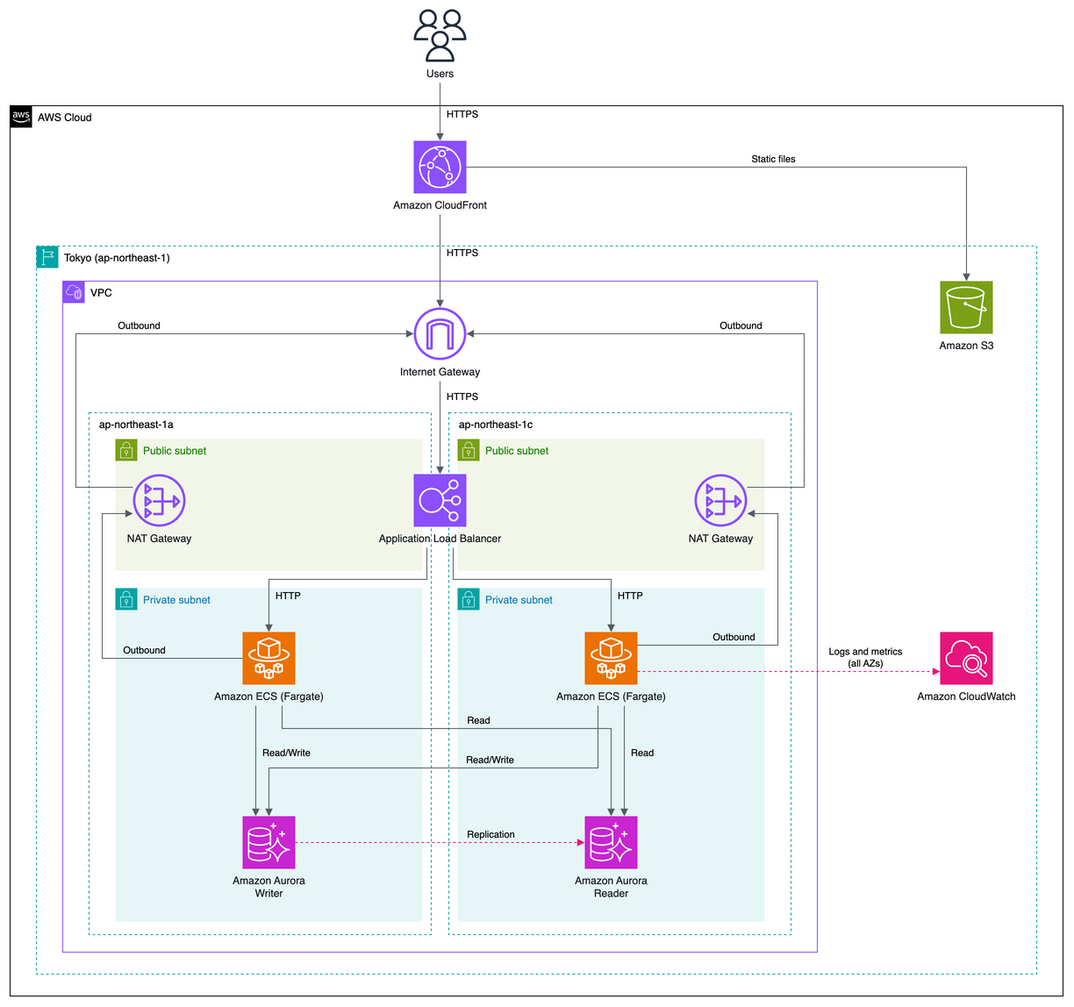
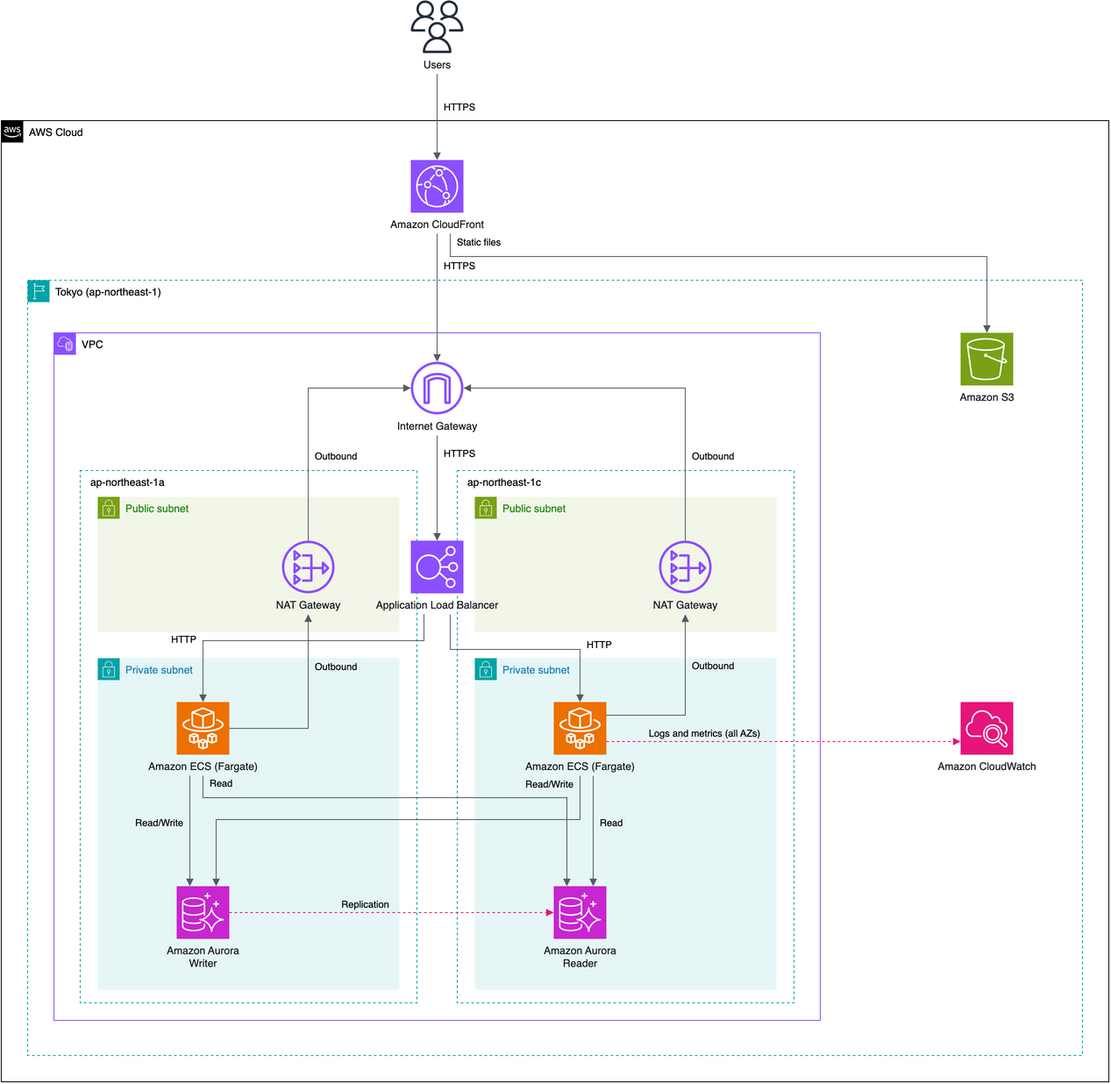
docs: 図の向きの書き方と、Web 構成の新しい並べ方を書く
set: direction で図の向きを選べるようになり、向きを書かない定義はどれも上から下で
描くようになった。VPC のある定義も無い定義と同じ配置で描くので、Web 構成の図の並び方も
変わった。README と docs がまだ左から右の図と古い配置を前提に書いていたので、今の
compile の動きに合わせる。

- README: 例の画像を、載せている定義をそのまま compile した図に差し替える（どちらも
  上から下）。direction: right で左から右になることを1段落で書き、「やらないこと」から
  向きの指定を外す。API の画像は中身が固定した例 api-rest-en と違う図になるので、
  名前を api.png に変える
- docs/definition.md: set の表に direction を足し、VPC の無い定義で書ける設定と
  UNKNOWN_SETTING の allowed を今の値に直す。VPC のある図の並べ方（外は向きに沿い、
  VPC の中は AZ を横に並べてパブリックが上、Internet Gateway と CloudFront のそろえ方、
  ALB の置き場所、AZ が3つの線の添え書きと注記）と、関連付けの線に矢印が付かないことを
  書く。読みにくさが残る図の形も短く書く
- docs/rules.md: global-service-outside-region が出典つきの既定値になったので、制約を
  7つ、既定値を13にする。services.toml の derived_role を説明に足す

文書の例は、この版のバイナリで全部走らせ、終了コードと出力が書いたとおりであることを
確かめた。

diff --git a/docs/definition.md b/docs/definition.md
@@ -25,7 +25,7 @@ A part is a service name made of `a-z`, `0-9` and `_`, optionally followed by a 
 
 There are three connection symbols.
 
-`->` is a main flow, the path traffic takes. `~>` is an auxiliary flow, such as logs going to CloudWatch. It is drawn as a dashed line, and archwire does not work out a network route for it. `--` is an association, for something attached to something else. Write the thing being attached first. Which associations are accepted depends on the layout, see below. `waf` and `acm` are attachments: they may not be the source or the target of `->` or `~>`.
+`->` is a main flow, the path traffic takes. `~>` is an auxiliary flow, such as logs going to CloudWatch. It is drawn as a dashed line, and archwire does not work out a network route for it. `--` is an association, for something attached to something else. Write the thing being attached first. An association is drawn as a dashed line without an arrowhead, because nothing flows along it. Which associations are accepted depends on the layout, see below. `waf` and `acm` are attachments: they may not be the source or the target of `->` or `~>`.
 
 One pair of parts can be connected with one relation only. `ecs -> s3` together with `ecs ~> s3` is the error `CONFLICTING_RELATION`. Direction matters. `ecs -> aurora` and `aurora -> ecs` are two different pairs.
 
@@ -73,7 +73,7 @@ set:
   lang: ja
 ```
 
-`s3.web` and `s3.uploads` are two buckets. The diagram shows the name on the line under the service's name, so the first bucket reads Amazon S3 and then web. The part's id in the report and in the `.drawio` file is the name as written, such as `s3.web`. This definition and its expected output are the acceptance case `tests/cases/api-names-ja`.
+`s3.web` and `s3.uploads` are two buckets. The diagram shows the name on the line under the service's name, so the first bucket reads Amazon S3 and then web. The part's id in the report and in the `.drawio` file is the name as written, such as `s3.web`. With `direction: right` added under `set`, this definition and its expected output are the acceptance case `tests/cases/api-names-ja`.
 
 The name after the dot is made of `a-z`, `0-9` and `-`. It may not start or end with `-`, and a part has at most one dot. It is at most 24 characters long; a longer one is the error `NAME_TOO_LONG`, for example `lambda.resize-images-for-the-web` in `- user -> apigateway(http) -> lambda.resize-images-for-the-web` gives `at` `flows[0][2]` and `got` `resize-images-for-the-web`. `--` is always read as the association symbol, even inside a name, so `s3.foo--bar` is read as `s3.foo -- bar`; in `- user -> cloudfront -> s3.foo--bar` that gives `UNKNOWN_SERVICE` for `bar` at `flows[0][3]`. Write the kind after the name: `apigateway.public(http)`.
 
@@ -81,7 +81,7 @@ Named parts are accepted only in definitions without a VPC. `- user -> alb -> ec
 
 ## Definitions with a VPC
 
-archwire places the parts so the main flow reads from top to bottom inside the VPC, and adds what the path needs, such as the Internet Gateway between CloudFront and the load balancer. A note in the report says that auxiliary flows are not given a network route.
+archwire adds what the path needs, such as the Internet Gateway between CloudFront and the load balancer, and lays the parts out as described under [How the parts are laid out with a VPC](#how-the-parts-are-laid-out-with-a-vpc). A note in the report says that auxiliary flows are not given a network route.
 
 In this layout exactly two associations are accepted, `waf -- cloudfront` (a web ACL on the distribution) and `acm -- cloudfront` (its certificate). Every other `--` is `UNSUPPORTED`, including `waf -- alb`, `acm -- alb`, `waf -- acm` and the reversed `cloudfront -- waf` and `cloudfront -- acm`. Which service may attach to which is data, the `attach_to` field in `rules/aws/services.toml`.
 
@@ -111,6 +111,20 @@ For example, these are all `UNSUPPORTED` in a definition with a VPC: `cloudfront
 An auxiliary flow is labelled "Logs and metrics" whatever its target, because it does not carry the target's main traffic.
 
 `ecs -> s3` is accepted but leaves a hole, see `choose`.
+
+### How the parts are laid out with a VPC
+
+Outside the VPC, the parts are laid out as in a definition without a VPC (see [How the parts are laid out](#how-the-parts-are-laid-out)), in the direction `set.direction` gives: from top to bottom, or from left to right with `direction: right`. Users and CloudFront come first, then the Region frame, which holds the VPC and the Regional services. The VPC takes a place in its rank like one large part, and comes first in that rank. So S3 in `cloudfront -> s3` goes to the right of the VPC in a top-to-bottom diagram, and below it in a left-to-right one. A part that only parts inside the VPC connect to, such as CloudWatch in `ecs ~> cloudwatch`, goes to the right of the VPC in both directions.
+
+The inside of the VPC is the same in both directions. The Availability Zones stand side by side, and in each zone the public subnet is above the private one. Inside the subnets the main flows run from top to bottom, so in `alb -> ecs -> aurora` ECS is above Aurora. ECS gets a copy in each zone. Aurora's writer is in the first zone and its readers in the zones after it.
+
+The Internet Gateway sits inside the VPC on the side where the traffic comes in: the top side in a top-to-bottom diagram, the left side in a left-to-right one. A part that sends a main flow to the Internet Gateway, such as CloudFront, is lined up with it, so CloudFront, the Internet Gateway and the load balancer stand on one straight line, and a line from CloudFront to S3 bends on its way.
+
+The load balancer spans the zones. With two zones it sits in the public tier on the border between them, level with the NAT gateways in a top-to-bottom diagram. With three zones it sits above the zone frames.
+
+A line's label says which zones it stands for. With two zones, archwire draws the lines between parts in different zones. With three zones it draws no line between zones: each line inside a zone stands for the lines from every zone into the same part, and a note in the report says so. A label ends with "(all AZs)" when the sender has a copy in every zone, and names the zones otherwise. For example, with `azs: 3` and `readers: 1`, Aurora has a copy in two zones only, and `aurora ~> cloudwatch` is labelled "Logs and metrics (from 1a, 1c)". When a target in one zone has no sender in the same zone, the line comes from a sender in another zone, and a note names it. With the same settings, `aurora -> ecs` gives the note "In ap-northeast-1d, ecs-1d has no aurora in its own zone, so the line from aurora-1a in another zone is drawn."
+
+Some diagrams are correct but harder to read than they could be. In a top-to-bottom diagram, WAF and Certificate Manager attached to CloudFront stand one under the other to its right, which makes the row of global services tall. An auxiliary line from the load balancer to a part right of the VPC, such as `alb ~> s3`, can go round the far side of that part and enter it from the right. In a left-to-right diagram, S3 fed by CloudFront sits below the VPC, so the line to it is long.
 
 ## Definitions without a VPC
 
@@ -177,7 +191,7 @@ The report contains:
 ]
 ```
 
-In the diagram the API Gateway reads Amazon API Gateway with "type undecided" (「種類未定」 in Japanese) on the next line, and the line from Cognito is labelled "Verify tokens". This definition and its expected output are the acceptance case `tests/cases/hole-apigateway`. A named part has its own hole: `apigateway.public` gives `kind.apigateway.public`.
+In the diagram the API Gateway reads Amazon API Gateway with "type undecided" (「種類未定」 in Japanese) on the next line, and the line from Cognito is labelled "Verify tokens". With `set:` and `direction: right` added, this definition and its expected output are the acceptance case `tests/cases/hole-apigateway`. A named part has its own hole: `apigateway.public` gives `kind.apigateway.public`.
 
 Answer the hole in one of two ways. Write the kind in the definition, as in `apigateway(http)`, or answer in `choose`:
 
@@ -189,23 +203,23 @@ Compile again and the exit code is 0. Do not do both: when the definition alread
 
 ### Settings without a VPC
 
-Only `lang` and `region` can be set. Any other key, including `azs`, `nat` and `readers`, is `UNKNOWN_SETTING` with `allowed` `lang` and `region`.
+Only `direction`, `lang` and `region` can be set. Any other key, including `azs`, `nat` and `readers`, is `UNKNOWN_SETTING` with `allowed` `direction`, `lang` and `region`.
 
 ### How the parts are laid out
 
-The diagram reads from left to right. Users are on the left, then a column for global services (CloudFront, WAF and Certificate Manager) inside the AWS Cloud frame, then the Region frame. archwire works out the layout from the definition alone; the definition cannot move a part.
+The main flows run from top to bottom, or from left to right with `direction: right` (see [set](#set)). Below, a rank is a row in a top-to-bottom diagram and a column in a left-to-right one, and across means along the rank: from left to right along a row, or from top to bottom down a column. Users come first, then a rank for global services (CloudFront, WAF and Certificate Manager) inside the AWS Cloud frame, then the Region frame. archwire works out the layout from the definition alone; the definition cannot move a part.
 
-Inside the Region, each part on a main flow goes in a column one to the right of the furthest part that flows into it within the Region; a part with nothing flowing into it within the Region goes in the first column. Within a column, parts are stacked top to bottom in the order they first appear in the definition. A part is centred on the parts that flow into it: its height is halfway between the highest and the lowest of them, rounded down to a whole pixel, unless that would bring it too close to the part above. A part that sends main flows to two or more parts is then moved, where there is room, to halfway between the highest and the lowest of them. Columns move apart when the names or line labels between them are wide.
+Inside the Region, each part on a main flow goes in the rank one past the furthest part that flows into it within the Region; a part with nothing flowing into it within the Region goes in the first rank. Within a rank, parts are placed across in the order they first appear in the definition. A part is centred on the parts that flow into it: its place across is halfway between the first and the last of them, rounded down to a whole pixel, unless that would bring it too close to the part before it. A part that sends main flows to two or more parts is then moved, where there is room, to halfway between the first and the last of them. Ranks move apart when the names or line labels between them are wide.
 
-Parts that carry no main flow, such as Cognito and CloudWatch, go on a row below the main flows, in the column of the part they are attached to (for an association) or of the first part that sends to them (for an auxiliary flow). That column is tried first; when another such part or its name is already there, the part moves to the next free column to the right. WAF and Certificate Manager go under the CloudFront they are attached to; one attached to two distributions goes at the bottom of the global column. Adding or removing such a part does not move the parts on main flows within the Region.
+Parts that carry no main flow, such as Cognito and CloudWatch, go one step across past the parts on main flows (to their right in a top-to-bottom diagram, below them in a left-to-right one), in the rank of the part they are attached to (for an association) or of the first part that sends to them (for an auxiliary flow). That rank is tried first; when another such part or its name is already there, the part moves to the next free rank. WAF and Certificate Manager go one step across from the CloudFront they are attached to, one after another in the direction of the main flows; one attached to two distributions goes past everything else in the global rank. Adding or removing such a part does not move the parts on main flows within the Region.
 
 When several parts of the same service send the same auxiliary flow (`~>`) or association (`--`), with the same label, to the same part, the diagram draws one line for them. Main flows (`->`) are never merged; each is drawn. The merged line is labelled with the count, such as "Logs and metrics (3 sources)" or 「ログ・メトリクス（3か所から）」. The report's `notes` names the parts, such as `"The line from lambda.search to cloudwatch stands for the lines from lambda.orders, lambda.users, lambda.search."`. The acceptance case `tests/cases/api-merged-ja` shows this with three Lambda functions sending logs to one CloudWatch.
 
-When no part belongs to a Region, as in `- user -> cloudfront` with `- waf -- cloudfront` (the acceptance case `tests/cases/edge-waf-en`), no Region frame is drawn, and the report gives no reason for one.
+When no part belongs to a Region, as in `- user -> cloudfront` with `- waf -- cloudfront` (the acceptance case `tests/cases/edge-waf-en`, drawn with `direction: right`), no Region frame is drawn, and the report gives no reason for one.
 
 A diagram without a VPC gets these reasons: the AWS Cloud frame, the Region frame and the Region chosen when `set.region` is left out, and the place of each part the definition wrote (global services outside the Region frame, Regional services inside it, Cognito inside it because a user pool is created in one Region, and Certificate Manager outside it because a certificate used with CloudFront is in us-east-1). With `apigateway(http)` or `apigateway(rest)` and a `cognito -- apigateway` line, the API Gateway also gets the reason why the association is drawn as that authorizer.
 
-If archwire cannot lay out a definition without parts or names overlapping or leaving their frame, it writes no diagram and reports `LAYOUT_FAILED`. That is a bug in archwire, not in the definition.
+If archwire cannot lay out a definition, with or without a VPC, without parts or names overlapping or leaving their frame, it writes no diagram and reports `LAYOUT_FAILED`. That is a bug in archwire, not in the definition.
 
 ## set
 
@@ -214,7 +228,7 @@ set:
   azs: 3
 ```
 
-The table is for definitions with a VPC. A definition without a VPC accepts only `lang` and `region`, see [Settings without a VPC](#settings-without-a-vpc).
+The table is for definitions with a VPC. A definition without a VPC accepts only `direction`, `lang` and `region`, see [Settings without a VPC](#settings-without-a-vpc).
 
 | Key | Values | Default |
 |---|---|---|
@@ -223,8 +237,9 @@ The table is for definitions with a VPC. A definition without a VPC accepts only
 | `readers` | the number of Aurora readers, from `1` up to `azs` minus 1 | `azs` minus 1 |
 | `nat` | `per-az` (a NAT gateway in each zone) or `single` (one, in the first zone) | `per-az` |
 | `lang` | `en` or `ja`, the language of labels, reasons and notes. Service names stay in English | `en` |
+| `direction` | `down` (the main flows run from top to bottom) or `right` (from left to right) | `down` |
 
-When a key is left out, archwire uses the default and records it in the report as a `default` reason. A value outside the list is `BAD_SETTING`, and a key that is not in the table is `UNKNOWN_SETTING`.
+When `azs`, `region`, `readers` or `nat` is left out, archwire uses the default and records it in the report as a `default` reason. `direction` and `lang` change only how the diagram is drawn and get no reason. A value outside the list is `BAD_SETTING`; `direction: left` gives `allowed` `down` and `right`. A key that is not in the table is `UNKNOWN_SETTING`.
 
 ## choose
 
@@ -307,12 +322,12 @@ When a definition has errors, `compile` writes no diagram, removes a diagram lef
 | `UNKNOWN_SERVICE` | a name that is not a writable service | `- user -> cloudfrnt -> alb -> ecs` gives `at` `flows[0][1]`, `allowed` lists the writable names | Yes, with a name from `allowed` |
 | `UNKNOWN_OPTION` | a kind the service does not have | `ecs(lambda)` gives `allowed` `fargate` | Yes, with the part and a kind from `allowed`, or the bare name |
 | `BAD_SETTING` | a value outside the list | `azs: 4` gives `at` `set.azs`, `allowed` is `2` and `3` | Yes, with a value from `allowed` |
-| `UNKNOWN_SETTING` | a key that is not a setting | `colour: red` gives `at` `set.colour`, `allowed` lists the five keys; without a VPC, `azs: 3` gives `at` `set.azs`, `allowed` `lang` and `region` | No. `set` can change only the value; delete the line in the file |
+| `UNKNOWN_SETTING` | a key that is not a setting | `colour: red` gives `at` `set.colour`, `allowed` lists the six keys; without a VPC, `azs: 3` gives `at` `set.azs`, `allowed` `direction`, `lang` and `region` | No. `set` can change only the value; delete the line in the file |
 | `BAD_CHOICE` | an answer that is not one of the hole's choices | `route.ecs.s3: tunnel` gives `at` `choose.route.ecs.s3`, `allowed` `endpoint` and `nat`; `kind.apigateway: websocket` gives `allowed` `http` and `rest` | Yes, with a value from `allowed` |
 | `UNKNOWN_HOLE` | an answer for a hole that does not exist | `route.ecs.rds: nat` gives `at` `choose.route.ecs.rds`; so does `kind.apigateway: http` when the definition already says `apigateway(http)` | No. `set` can change only the value; delete the line in the file, and answer a hole from `allowed` with `archwire set <definition> choose.<hole> <value>` |
 | `UNSUPPORTED` | a connection or shape this version does not draw | `- user -> cloudfront -> ecs` gives `at` `flows` and `at` `flows[0]`; `- user -> s3` gives `at` `flows[0]`; `- user -> apigateway(http) -> lambda -> aurora` gives `at` `flows[0][1]` | Sometimes. `at` is a flow line (`flows[i]`), a part (`flows[i][j]`) or `flows`; change a part with `flows[i][j]`, or edit or remove the line in the file |
 | `TOO_MANY_ATTACHED` | more parts attached to one part than AWS allows | `- user -> cloudfront -> s3`, `- waf.front -- cloudfront` and `- waf.extra -- cloudfront` give `at` `flows[2]`, `got` `waf.extra`, `rule` `one-web-acl-per-resource` | No. Remove the extra line in the file |
-| `LAYOUT_FAILED` | archwire could not lay out a definition without a VPC without overlaps; a bug in archwire | no known definition; the message names the parts involved | No. Please report the definition |
+| `LAYOUT_FAILED` | archwire could not lay out a definition without overlaps; a bug in archwire | no known definition; the message names the parts involved | No. Please report the definition |
 | `BAD_PATH` | the place given to `set` does not exist | `archwire set web.yaml 'flows[9][0]' x`, on a file with fewer flow lines | Run `set` again with an existing place |
 | `BAD_VALUE` | the value given to `set` is empty or has a line break or `#`, or a value for `flows[i][j]` does not read as one part | `archwire set web.yaml set.azs ""`; `archwire set api.yaml 'flows[0][2]' 's3.foo--bar'` | Run `set` again with one non-empty line, or one part |
 | `CANNOT_READ` | `compile` or `set` could not read the definition file | `archwire compile missing.yaml -o out.drawio` | No. Check the path and the file's permissions |
@@ -326,7 +341,7 @@ Here is a full report for a misspelled name, from `- user -> cloudfrnt -> alb ->
 {
   "versions": {
     "archwire": "0.1.0",
-    "rules": "2026.11.2"
+    "rules": "2026.11.3"
   },
   "derived": [],
   "holes": [],

diff --git a/docs/rules.md b/docs/rules.md
@@ -2,7 +2,7 @@
 
 archwire's knowledge of AWS is data, not code. It lives in four TOML files under `rules/aws/`, which are compiled into the program. Changing them means rebuilding.
 
-`services.toml` describes each service: its `key` (the name used in a definition), where it sits (`scope` is `outside`, `global`, `regional` or `vpc`, and for VPC services `subnet` is `public` or `private`), how many copies are drawn and where (`place`: `single` for one, `gateway` for one on the VPC's edge, `per_az` for one per Availability Zone, `span` for one spanning the zones, or `writer_reader` for Aurora's writer and readers), the icon (`icon`, `shape` and `color`), the `label`, the kinds a service can have (`options`), the label on lines into it (`in_label`), and `derived_only` for the services archwire adds by itself and that cannot be written in a definition (`igw`, `nat`). Two fields decide which connections a global service takes part in: `flow_source = true` marks one that may carry main and auxiliary flows (`cloudfront`), and `attach_to` makes a service an attachment that carries no flows and may only be associated with the services it lists (`waf` and `acm`, both with `["cloudfront"]`). These two fields and `in_label` are used for definitions with a VPC.
+`services.toml` describes each service: its `key` (the name used in a definition), where it sits (`scope` is `outside`, `global`, `regional` or `vpc`, and for VPC services `subnet` is `public` or `private`), how many copies are drawn and where (`place`: `single` for one, `gateway` for one on the VPC's edge, `per_az` for one per Availability Zone, `span` for one spanning the zones, or `writer_reader` for Aurora's writer and readers), the icon (`icon`, `shape` and `color`), the `label`, the kinds a service can have (`options`), the label on lines into it (`in_label`), `derived_only` for the services archwire adds by itself and that cannot be written in a definition (`igw`, `nat`), and `derived_role` for the part such a service plays at the VPC's edge (`entry_gateway` for the Internet Gateway, where traffic from outside comes in, and `egress_nat` for the NAT gateway, where private traffic goes out). Two fields decide which connections a global service takes part in: `flow_source = true` marks one that may carry main and auxiliary flows (`cloudfront`), and `attach_to` makes a service an attachment that carries no flows and may only be associated with the services it lists (`waf` and `acm`, both with `["cloudfront"]`). These two fields and `in_label` are used for definitions with a VPC.
 
 Four more fields are used for definitions without a VPC. `origin = true` marks where main flows start; every main flow must be reachable from such a part (`user`). `kind_hole = true` makes a part written without a kind a hole (`apigateway`, whose kinds are `http` and `rest`). `separate_from_vpc = true` marks a service that cannot be written together with VPC services yet (`apigateway`, `lambda`, `dynamodb` and `cognito`); such a definition stops with `UNSUPPORTED` before it is laid out. `place_rule` names the rule that explains where the part is drawn, instead of the rule its `scope` gives (`cognito` uses `cognito-user-pool-in-one-region`).
 
@@ -37,11 +37,10 @@ to_kind.rest = { label = "cognito_authorizer", rule = "rest-api-cognito-authoriz
 
 A rule's `kind` is `constraint` or `default`, and the difference is the point of the file.
 
-A constraint states something AWS requires or does, and it must have a `source`, the URL of the AWS documentation page that says so. A constraint without a source is rejected when the rules are loaded. A reason claims no more than its source says; where the reason also says how archwire draws the fact, that part is written as archwire's choice. The eight constraints today are the following.
+A constraint states something AWS requires or does, and it must have a `source`, the URL of the AWS documentation page that says so. A constraint without a source is rejected when the rules are loaded. A reason claims no more than its source says; where the reason also says how archwire draws the fact, that part is written as archwire's choice. The seven constraints today are the following.
 
 | Rule | What it says |
 |---|---|
-| `global-service-outside-region` | AWS lists CloudFront and AWS WAF for CloudFront as global services; archwire draws them outside the Region frame |
 | `cloudfront-certificate-in-us-east-1` | a Certificate Manager certificate used with CloudFront is requested or imported in us-east-1; archwire draws it outside the Region frame with `us-east-1` under its name |
 | `load-balancer-in-vpc` | an Application Load Balancer is created in subnets of a VPC |
 | `alb-spans-two-azs` | an Application Load Balancer needs subnets in at least two Availability Zones |
@@ -50,7 +49,7 @@ A constraint states something AWS requires or does, and it must have a `source`,
 | `cognito-user-pool-in-one-region` | an Amazon Cognito user pool is created in one AWS Region; archwire draws it inside the Region frame |
 | `one-web-acl-per-resource` | a resource can be associated with only one web ACL, and one web ACL can be associated with more than one CloudFront distribution; archwire stops a definition that attaches two WAFs to one CloudFront |
 
-A default is archwire's own choice for something the definition did not say. It is not an AWS requirement, and the report marks it `default` so nobody mistakes it for one. A source is optional. The twelve defaults today are `resources-inside-aws-cloud-frame`, `resources-inside-region-frame`, `regional-service-outside-vpc`, `nat-per-az`, `default-two-azs`, `public-and-private-subnet-per-az`, `compute-in-private`, `database-in-private`, `aurora-writer-reader`, `default-region`, `rest-api-cognito-authorizer` and `http-api-jwt-authorizer`. `nat-per-az` cites an AWS page for its reasoning. It is still a default, because a single NAT gateway is also valid and `set.nat: single` asks for it. The two authorizer rules cite AWS pages for the facts they state (a REST API uses a Cognito user pool through a `COGNITO_USER_POOLS` authorizer; the JWT authorizer type is supported only for HTTP APIs), and are defaults because drawing `cognito -- apigateway` as that authorizer is archwire's choice.
+A default is archwire's own choice for something the definition did not say. It is not an AWS requirement, and the report marks it `default` so nobody mistakes it for one. A source is optional. The thirteen defaults today are `resources-inside-aws-cloud-frame`, `resources-inside-region-frame`, `global-service-outside-region`, `regional-service-outside-vpc`, `nat-per-az`, `default-two-azs`, `public-and-private-subnet-per-az`, `compute-in-private`, `database-in-private`, `aurora-writer-reader`, `default-region`, `rest-api-cognito-authorizer` and `http-api-jwt-authorizer`. Four defaults cite an AWS page for the facts they rest on. `global-service-outside-region` cites the page where AWS lists CloudFront and AWS WAF for CloudFront among the global services, whose resources are not Region-specific; drawing global services outside the Region frame is archwire's choice, so the rule is a default. `nat-per-az` cites an AWS page for its reasoning. It is still a default, because a single NAT gateway is also valid and `set.nat: single` asks for it. The two authorizer rules cite AWS pages for the facts they state (a REST API uses a Cognito user pool through a `COGNITO_USER_POOLS` authorizer; the JWT authorizer type is supported only for HTTP APIs), and are defaults because drawing `cognito -- apigateway` as that authorizer is archwire's choice.
 
 Every part archwire adds gets its reasons from these rules, in the report under `derived` and inside the `.drawio` file as the cell attributes `derived`, `rule`, `kind` and `source`. A reason can also be about a part the definition wrote, such as `compute-in-private` for ECS; the report tells the two apart with `added`, and the `.drawio` file marks only the cells archwire added with `added="1"`.
 

diff --git a/README.md b/README.md
@@ -22,7 +22,7 @@ archwire compile web.yaml -o web.drawio
 
 The command writes `web.drawio` and prints a JSON report. The exit code is 0. This is what the diagram looks like:
 
-![The diagram archwire writes for web.yaml: users, CloudFront, an Internet Gateway, an Application Load Balancer, ECS and Aurora in two Availability Zones, NAT gateways, S3 and CloudWatch](assets/web-2az.png)
+![The diagram archwire writes for web.yaml, from top to bottom: users, CloudFront, and inside the Tokyo Region frame a VPC with the Internet Gateway at its top, two Availability Zones side by side with a NAT gateway in each public subnet, the Application Load Balancer on the border between the zones, ECS and Aurora in the private subnets, and S3 and CloudWatch to the right of the VPC](assets/web-2az.png)
 
 Four lines of definition produced the VPC, the Internet Gateway, the public and private subnets, the second Availability Zone, the NAT gateways, and the Aurora writer and reader. None of them were written in the definition. Each has a reason in the report, and the same reason is stored on the part inside the `.drawio` file (see [Reading the report](#reading-the-report)).
 
@@ -30,7 +30,7 @@ In this example these elements carry a reason: the AWS Cloud frame, the Region f
 
 ### An API without a VPC
 
-A definition that writes no VPC service is drawn without a VPC, from left to right. Save this as `api.yaml`:
+A definition that writes no VPC service is drawn without a VPC. Save this as `api.yaml`:
 
 ```yaml
 flows:
@@ -50,9 +50,13 @@ archwire compile api.yaml -o api.drawio
 
 The exit code is 0. This is the diagram:
 
-![The diagram archwire writes for api.yaml: users, CloudFront with AWS WAF and Certificate Manager under it, and inside the Tokyo Region frame S3, API Gateway (REST API) with Cognito under it, Lambda with CloudWatch under it, and DynamoDB](assets/api-rest-en.png)
+![The diagram archwire writes for api.yaml, from top to bottom: users, CloudFront with AWS WAF and Certificate Manager to its right, and inside the Tokyo Region frame S3 under CloudFront, and API Gateway (REST API) with Cognito to its right, Lambda with CloudWatch to its right, and DynamoDB](assets/api.png)
 
-The line from Cognito is labelled "Cognito authorizer" because the API is a REST API; with `apigateway(http)` it reads "JWT authorizer". Certificate Manager carries `us-east-1` under its name. The report gives the reasons for the AWS Cloud and Region frames, the Region, the place of each part, and the authorizer. This definition and its expected output are the acceptance case `tests/cases/api-rest-en`.
+The line from Cognito is labelled "Cognito authorizer" because the API is a REST API; with `apigateway(http)` it reads "JWT authorizer". Certificate Manager carries `us-east-1` under its name. The report gives the reasons for the AWS Cloud and Region frames, the Region, the place of each part, and the authorizer.
+
+### Direction
+
+Both diagrams above run from top to bottom, which is what you get when the definition says nothing about direction. To draw the main flows from left to right instead, add `direction: right` under `set`. The inside of a VPC stays the same either way: the Availability Zones side by side, the public subnets above the private ones. `api.yaml` with `direction: right` is the acceptance case `tests/cases/api-rest-en`, and `tests/cases/web-2az-ja-right` shows a VPC drawn from left to right. Where each part goes is described in [docs/definition.md](docs/definition.md#how-the-parts-are-laid-out-with-a-vpc).
 
 ## Install
 
@@ -156,15 +160,15 @@ The first is a Web architecture with one VPC with two or three Availability Zone
 
 Such a definition must have a main flow from `user` or `cloudfront` into `alb`, and from `alb` into `ecs`. Which other connections are accepted is listed in [docs/definition.md](docs/definition.md#which-connections-are-accepted-with-a-vpc).
 
-The second is an API without a VPC: users, CloudFront with WAF and Certificate Manager attached, S3, API Gateway as an HTTP API or a REST API, Lambda, DynamoDB, Cognito attached to API Gateway, and CloudWatch, drawn from left to right. Parts of one service can be told apart with a name after a dot, such as `s3.web` and `s3.uploads`. The accepted connections are listed pair by pair in `rules/aws/links.toml` and in [docs/definition.md](docs/definition.md#which-connections-are-accepted-without-a-vpc).
+The second is an API without a VPC: users, CloudFront with WAF and Certificate Manager attached, S3, API Gateway as an HTTP API or a REST API, Lambda, DynamoDB, Cognito attached to API Gateway, and CloudWatch. Parts of one service can be told apart with a name after a dot, such as `s3.web` and `s3.uploads`. The accepted connections are listed pair by pair in `rules/aws/links.toml` and in [docs/definition.md](docs/definition.md#which-connections-are-accepted-without-a-vpc).
 
-In both shapes the only Region is `ap-northeast-1`, and labels are in English, or in Japanese with `set.lang`. A connection or shape not described here stops with the error `UNSUPPORTED` instead of producing a diagram that is wrong.
+In both shapes the diagram runs from top to bottom, or from left to right with `set.direction`. The only Region is `ap-northeast-1`, and labels are in English, or in Japanese with `set.lang`. A connection or shape not described here stops with the error `UNSUPPORTED` instead of producing a diagram that is wrong.
 
 ## What this version does not do
 
 It cannot yet draw a definition that mixes VPC services (`alb`, `ecs`, `aurora`) with `apigateway`, `lambda`, `dynamodb` or `cognito`; such a definition stops with `UNSUPPORTED`. Names after a dot are accepted only in definitions without a VPC.
 
-It does not draw the endpoint types of API Gateway (edge-optimized, Regional, private) or WebSocket APIs. It does not attach WAF to API Gateway; `waf` attaches only to `cloudfront`. Which API types support AWS WAF is in the AWS comparison [Choose between REST APIs and HTTP APIs](https://docs.aws.amazon.com/apigateway/latest/developerguide/http-api-vs-rest.html). It does not draw a sign-in line from users to Cognito; Cognito is drawn only attached to API Gateway. A definition cannot choose the direction of the diagram.
+It does not draw the endpoint types of API Gateway (edge-optimized, Regional, private) or WebSocket APIs. It does not attach WAF to API Gateway; `waf` attaches only to `cloudfront`. Which API types support AWS WAF is in the AWS comparison [Choose between REST APIs and HTTP APIs](https://docs.aws.amazon.com/apigateway/latest/developerguide/http-api-vs-rest.html). It does not draw a sign-in line from users to Cognito; Cognito is drawn only attached to API Gateway.
 
 It does not draw queues, topics, event buses, workflows or AI services, more than one VPC, Transit Gateway, on-premises networks, several accounts, or other clouds. It does not simulate failures, show migration stages, compare a diagram with Terraform, or read a `.drawio` file back into a definition.
 
